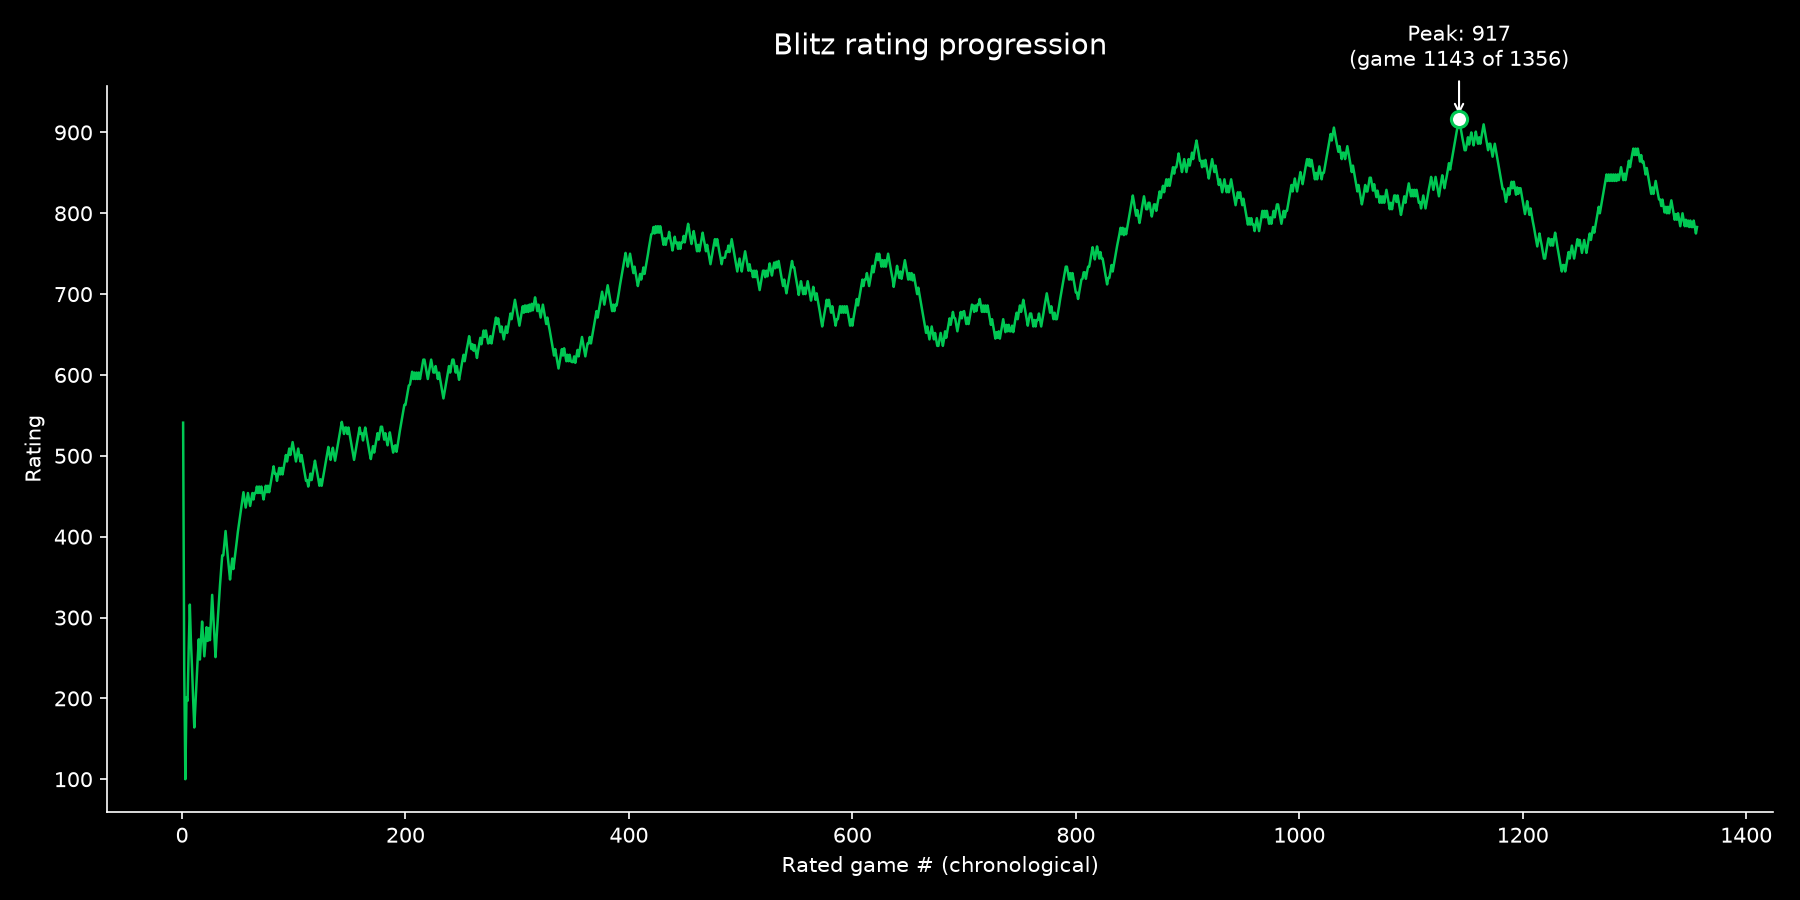
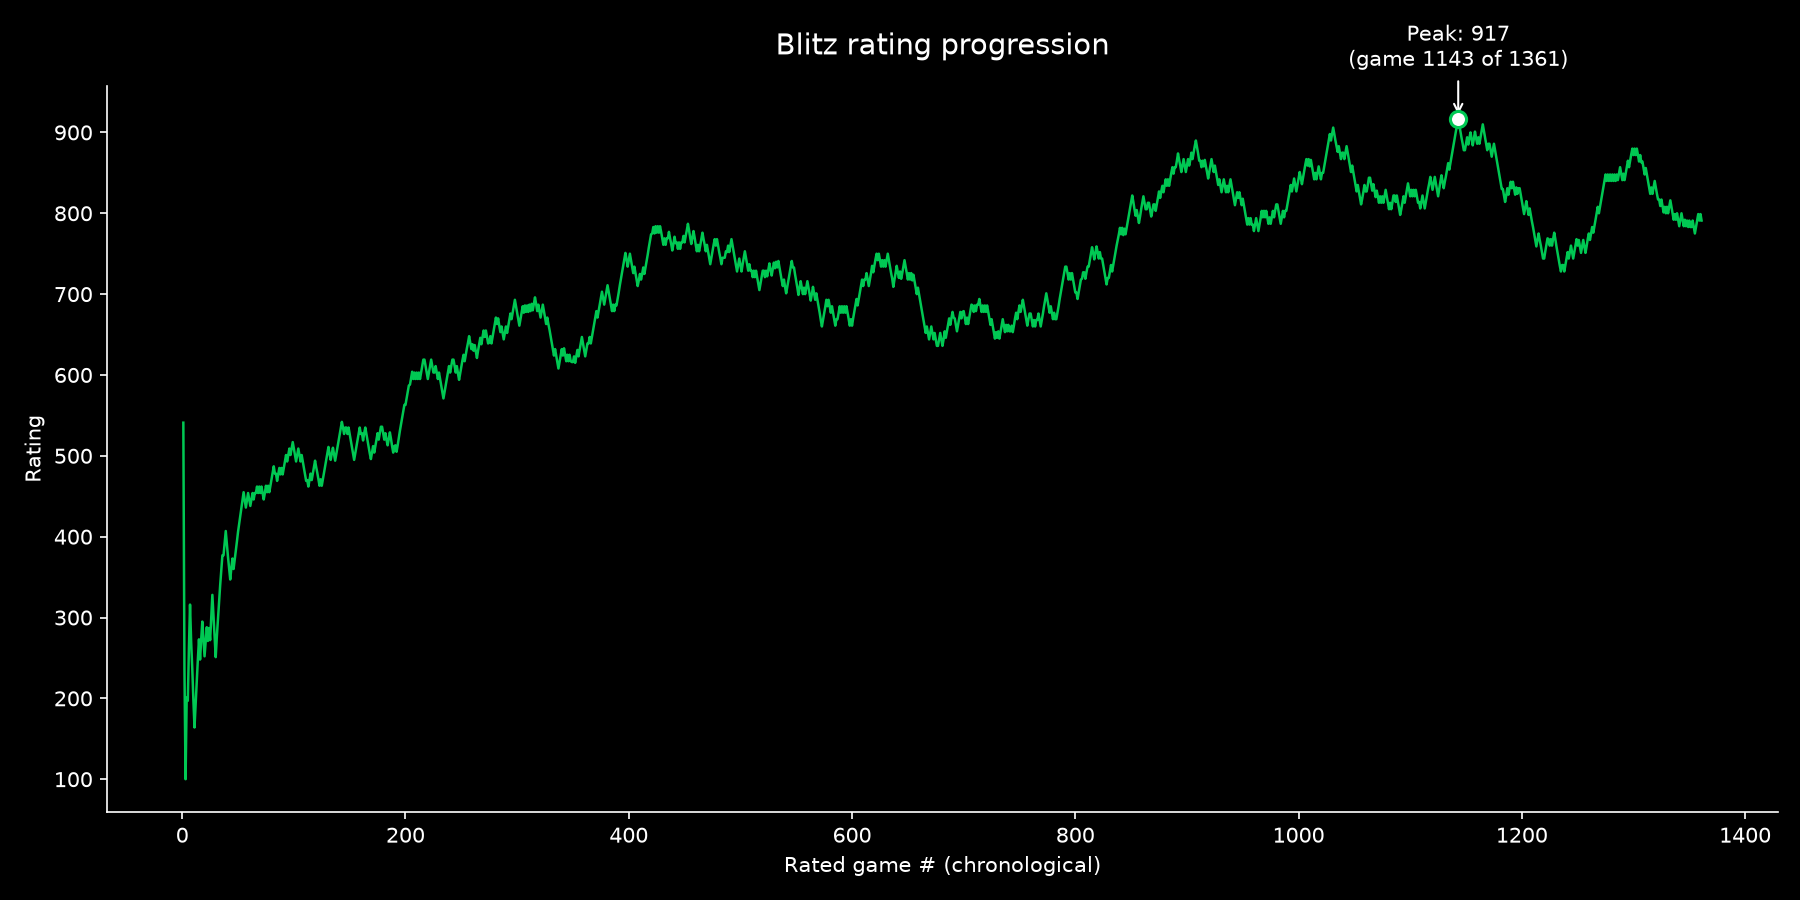
Auto-refresh chess stats 2026-11-21

diff --git a/README.md b/README.md
@@ -19,9 +19,9 @@ Built by Mirza Ramis Baig.
 The API: https://api.chess.com/pub/player/{username}/games/archives returns a list of monthly archive URLs, each returning full PGNs with clock times for clocked games.
 
 <!-- STATS:START -->
-### Last updated: 2026-11-20 15:35 UTC
+### Last updated: 2026-11-21 14:45 UTC
 
-**Dataset:** 2776 rated games, 2023-02-16 to 2026-11-20
+**Dataset:** 2781 rated games, 2023-02-16 to 2026-11-20
 
 **Statistically flagged countries this run** (Bonferroni-corrected within this run's test set —
 does *not* correct across repeated daily runs; see notes in `chess_analytics/stats.py`):
@@ -31,11 +31,11 @@ _No country crosses the Bonferroni-corrected significance threshold this run —
 **Session fatigue** (does performance decline the longer the player stays in one sitting? —
 sessions inferred from time gaps, see `chess_analytics/sessions.py`):
 
-Based on 1731 inferred sessions, 2776 games. Position-vs-performance correlation: ρ=-0.0311, p=0.1028 — not distinguishable from no trend. First game of session vs. later games: later games score worse by 0.036 on average, p=0.0474 — a statistically real step-change. _Both tests use α=0.05 uncorrected for this specific comparison — treat a single borderline p-value as a lead to watch over time, not a confirmed effect, same caveat as the country analysis._
+Based on 1732 inferred sessions, 2781 games. Position-vs-performance correlation: ρ=-0.0314, p=0.0993 — not distinguishable from no trend. First game of session vs. later games: later games score worse by 0.036 on average, p=0.0457 — a statistically real step-change. _Both tests use α=0.05 uncorrected for this specific comparison — treat a single borderline p-value as a lead to watch over time, not a confirmed effect, same caveat as the country analysis._
 
 **Peak rating** (see `chess_analytics/milestones.py` — this is a moving target, updates as new games are added):
 
-- **Blitz**: peak rating **917**, reached after 1143 of 1356 rated games, on 2026-10-06 — the account has since come back down from it
+- **Blitz**: peak rating **917**, reached after 1143 of 1361 rated games, on 2026-10-06 — the account has since come back down from it
 - **Rapid**: peak rating **986**, reached after 1171 of 1403 rated games, on 2026-04-16 — the account has since come back down from it
 
 
